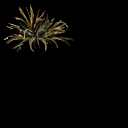
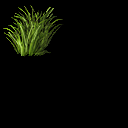
Agrego mas tiles y estructuras

Changed region(s): [[0.0312, 0.0312, 0.5625, 0.4375], [0.5312, 0.3438, 0.5625, 0.375], [0.4375, 0.3438, 0.4688, 0.375]]

diff --git a/Texture/TextureRepository.cpp b/Texture/TextureRepository.cpp
@@ -50,6 +50,7 @@
 #define HEALTH_POTION_PATH "../Images/Items/HealthPotion.png"
 #define MANA_POTION_PATH "../Images/Items/ManaPotion.png"
 #define GRASS_PATH "../Images/Map/Grass.png"
+#define DEAD_GRASS_PATH "../Images/Map/DeadGrass.png"
 #define SAND_PATH "../Images/Map/Sand.png"
 #define STONE_PATH "../Images/Map/Stone.png"
 #define SKELETON_PATH "../Images/Monsters/Skeleton.png"
@@ -63,7 +64,9 @@
 #define TREE_PATH "../Images/Map/Tree.png"
 #define LONG_TREE_PATH "../Images/Map/LongTree.png"
 #define FAT_TREE_PATH "../Images/Map/FatTree.png"
+#define PALM_TREE_PATH "../Images/Map/PalmTree.png"
 #define BUSH_PATH "../Images/Map/Bush.png"
+#define DEAD_BUSH_PATH "../Images/Map/DeadBush.png"
 #define HOUSE1_PATH "../Images/Map/House1.png"
 #define HOUSE2_PATH "../Images/Map/House2.png"
 #define HOUSE3_PATH "../Images/Map/House3.png"
@@ -155,6 +158,7 @@ void TextureRepository::_loadWeapons() {
 
 void TextureRepository::_loadTiles() {
     _setTileImage(Grass, GRASS_PATH, false);
+    _setTileImage(DeadGrass, DEAD_GRASS_PATH, false);
     _setTileImage(Sand, SAND_PATH, true);
 }
 
@@ -162,7 +166,9 @@ void TextureRepository::_loadStructures() {
     _setImage(Tree, TREE_PATH, 256, 256, -60, -180);
     _setImage(LongTree, LONG_TREE_PATH, 256, 256, -60, -180);
     _setImage(FatTree, FAT_TREE_PATH, 256, 256, -60, -180);
+    _setImage(PalmTree, PALM_TREE_PATH, 256, 256, -60, -180);
     _setImage(Bush, BUSH_PATH, 75, 65, 30, 40);
+    _setImage(DeadBush, DEAD_BUSH_PATH, 75, 65, 30, 40);
     _setImage(House1, HOUSE1_PATH, 196, 200, 40, -150);
     _setImage(House2, HOUSE2_PATH, 181, 213, 40, -150);
     _setImage(House3, HOUSE3_PATH, 200, 239, 30, -165);

diff --git a/Map/Map.cpp b/Map/Map.cpp
@@ -31,8 +31,8 @@ void Map::_setTiles() {
             }
 
             //If the number is a valid tile number
-            tiles.emplace_back(x, y, i%4, textureRepo.getTexture(Grass));
-            if (i == 25) structures.emplace_back(x, y, textureRepo.getTexture(Bush));
+            tiles.emplace_back(x, y, i%4, textureRepo.getTexture(DeadGrass));
+            if (i == 25) structures.emplace_back(x, y, textureRepo.getTexture(DeadBush));
             if (i == 5) tiles[5].addItemDrop(textureRepo.getTexture(GnarledStaffDrop));
 
             //Move to next tile spot

diff --git a/Texture/TextureRepository.h b/Texture/TextureRepository.h
@@ -55,6 +55,7 @@ enum TextureID {
     HealthPotion,
     ManaPotion,
     Grass,
+    DeadGrass,
     Sand,
     Stone,
     Skeleton,
@@ -68,7 +69,9 @@ enum TextureID {
     Tree,
     LongTree,
     FatTree,
+    PalmTree,
     Bush,
+    DeadBush,
     House1,
     House2,
     House3,
